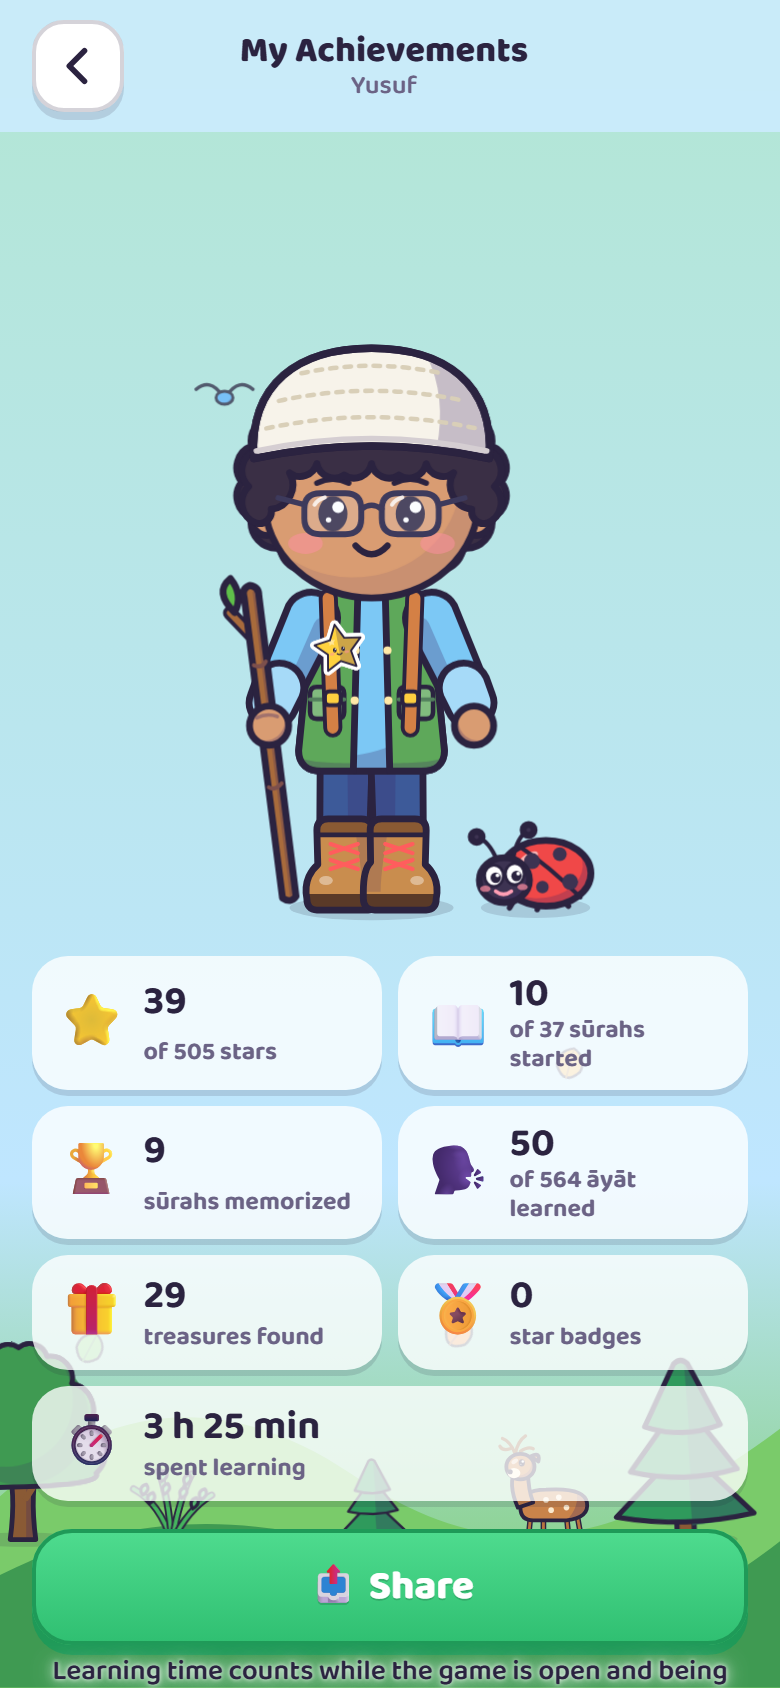
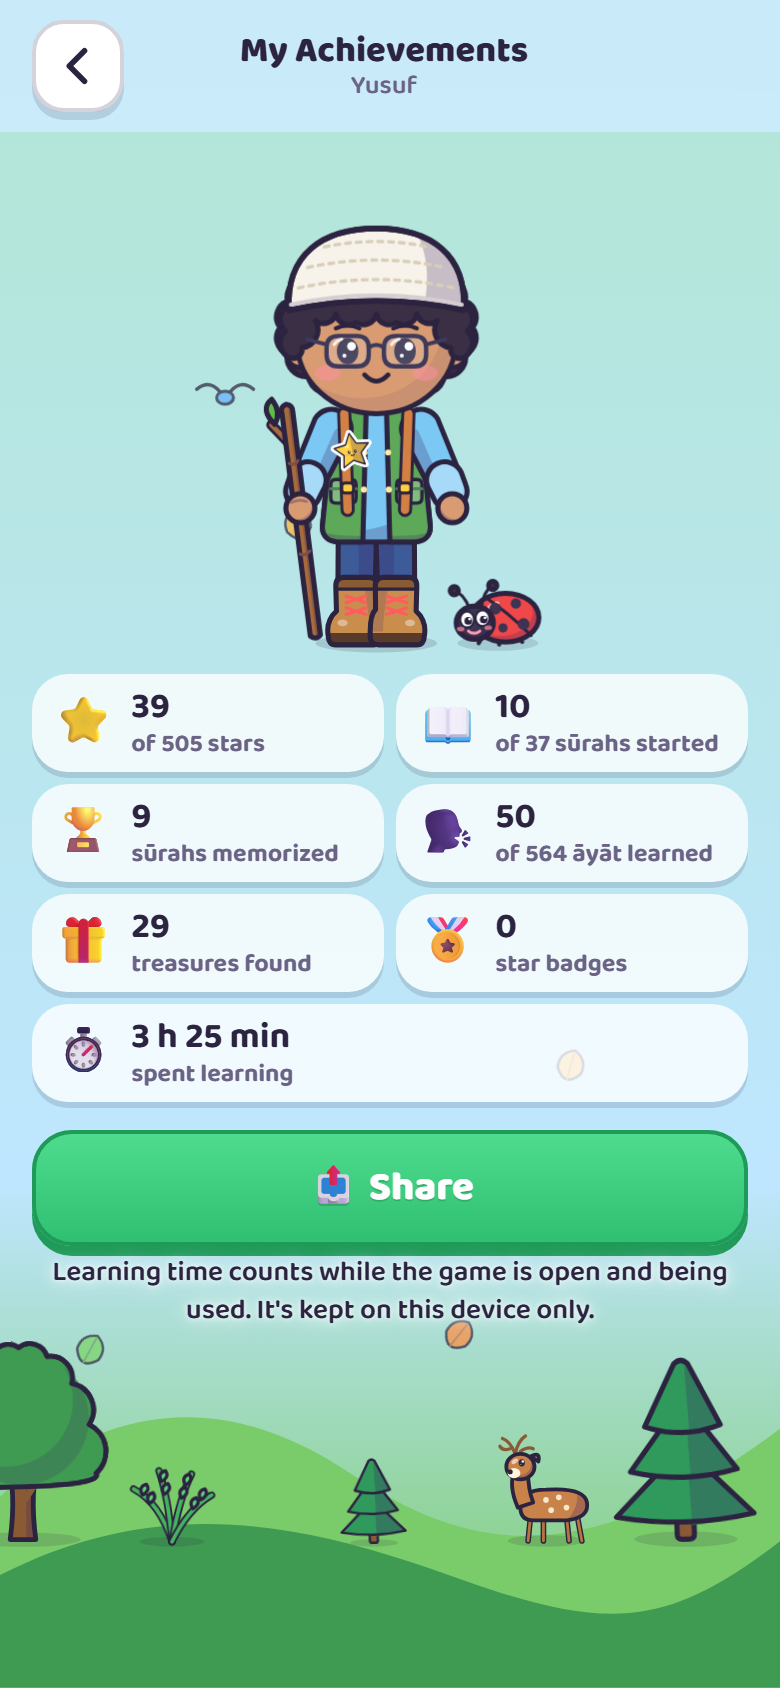
Little Hafiz Quest v2.6.10
- My Achievements fits on one screen: the explorer's stage is about a
  third of the screen (was nearly half, mostly empty above the head) and
  the cards are a little tighter, so Share and the world's scenery show.
- README Awards screenshot retaken; HANDOFF updated.

Claude-Session: https://claude.ai/code/session_01G32LazbMFB5CEeB9eK52fY

diff --git a/css/game.css b/css/game.css
@@ -8069,3 +8069,28 @@ img,
 svg {
   -webkit-user-drag: none;
 }
+
+/* ---------- v2.6.10 ---------- */
+/* My Achievements fits on one screen: a shorter stage for the explorer, tighter cards */
+.showscr .show-stage {
+  height: 30vh;
+  height: 30dvh;
+  min-height: 190px;
+  max-height: 330px;
+}
+.showscr .show-stage .wd-ex {
+  height: 100%;
+}
+.showscr .achgrid {
+  gap: 6px;
+  margin: 8px 0 10px;
+}
+.showscr .ach {
+  padding: 6px 10px;
+}
+.showscr .ach b {
+  font-size: 18px;
+}
+.showscr .ach-ic {
+  font-size: 23px;
+}

diff --git a/sw.js b/sw.js
@@ -17,7 +17,7 @@
  */
 'use strict';
 
-const VERSION = '2.6.9';
+const VERSION = '2.6.10';
 const SHELL_CACHE = `lhq2-shell-${VERSION}`;
 const AUDIO_CACHE = 'lhq2-audio'; // keep across app updates; change only if the audio files change
 const DATA_CACHE = 'lhq2-data'; // small lists that can change between versions (reciters, versions)

diff --git a/js/game.js b/js/game.js
@@ -37,7 +37,7 @@
 (function () {
   'use strict';
 
-  const VERSION = '2.6.9';
+  const VERSION = '2.6.10';
   const DATA = window.LHQ_DATA;
   if (!DATA || !Array.isArray(DATA.surahs)) throw new Error('Little Hafiz Quest: js/data.js did not load.');
   const ART = window.LHQ_ART;

diff --git a/HANDOFF.md b/HANDOFF.md
@@ -3,7 +3,7 @@
 Read this first in a new session. It is kept up to date with every release (see "Release flow" below).
 `README.md` is the player- and developer-facing description; this file is the working state.
 
-**Current version:** v2.6.9 (2026-10-31) · **Live:** https://akramali.github.io/little-hafiz-quest/ ·
+**Current version:** v2.6.10 (2026-10-31) · **Live:** https://akramali.github.io/little-hafiz-quest/ ·
 **Repo:** https://github.com/akramali/little-hafiz-quest (branch `main`; `v1` keeps the retired classic version)
 
 ---
@@ -101,4 +101,4 @@ v2.3–2.4: nature sounds, jigsaw, Read view, awards, files. v2.5.0: family sync
 classic v1 retired, word meanings. v2.5.1–2.5.8: buttons, speed, info/how-to, fruit and animals, all explorers on
 the map, chain setting, gift fixes, faces, glasses, Big Puzzle. v2.6.0: golden/green worlds, world rides, speed
 button, one-tap gifts, the Stranger. v2.6.1–2.6.6: Stranger polish, closing animations, stakes (every miss costs,
-world throws, protection), battle ground in the world's colors. v2.6.7: the Stranger every 10 minutes; speed and loop in Word Steps and Stepping Stones. v2.6.8: Read starts with the Bismillah (āyah -1, word data in `BISM_WORDS`) and follows the recited āyah; the screen stays on while reciting (`keepAwake`, Wake Lock; 99× loops let go after 15 min); full world names in the list. v2.6.9: no text selection or long-press menus (text boxes and the share picture excepted); zoom kept. Full detail: `git log` and `changelog.json`.
+world throws, protection), battle ground in the world's colors. v2.6.7: the Stranger every 10 minutes; speed and loop in Word Steps and Stepping Stones. v2.6.8: Read starts with the Bismillah (āyah -1, word data in `BISM_WORDS`) and follows the recited āyah; the screen stays on while reciting (`keepAwake`, Wake Lock; 99× loops let go after 15 min); full world names in the list. v2.6.9: no text selection or long-press menus (text boxes and the share picture excepted); zoom kept. v2.6.10: My Achievements fits on one screen. Full detail: `git log` and `changelog.json`.
